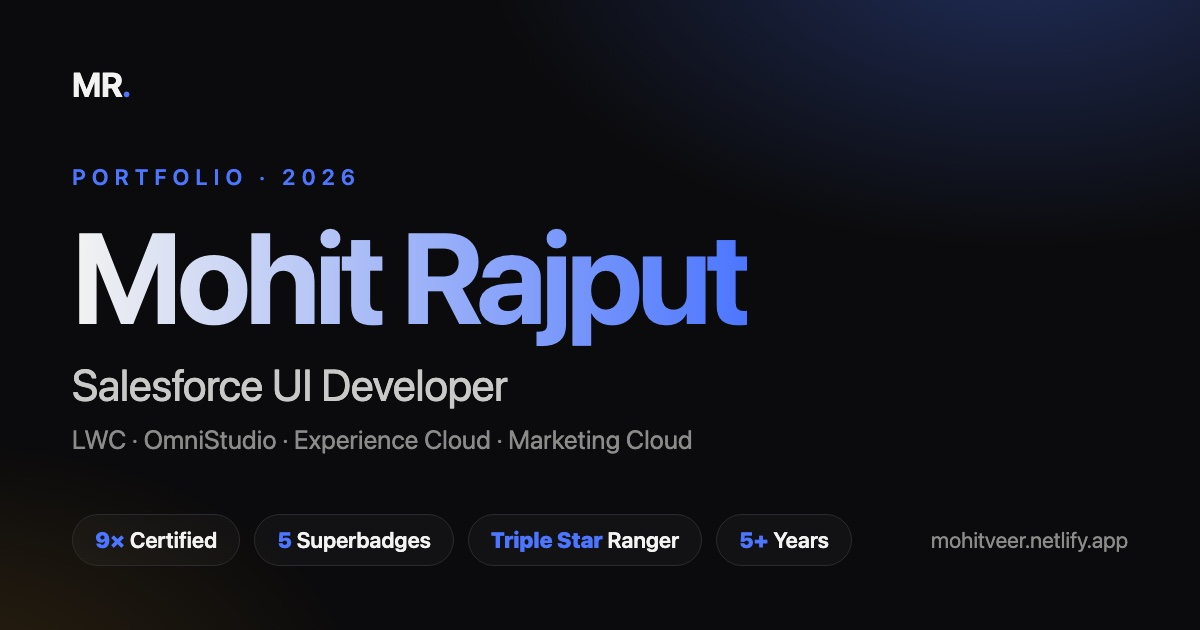
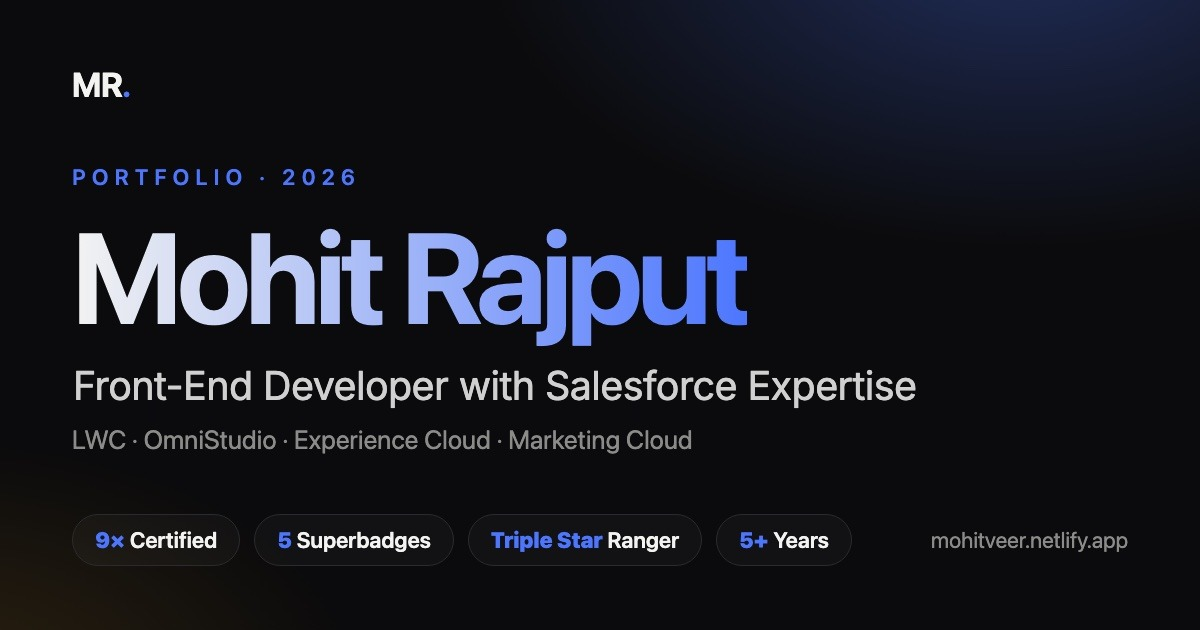
Reposition as a front-end developer with Salesforce expertise and sharpen page titles
Home title, descriptions, Open Graph/Twitter tags, JSON-LD (jobTitle, description, knowsAbout, alternateName), web manifest, llms.txt and README now lead with the new positioning instead of 'UI Developer'. Inner pages target the high-intent phrase 'Salesforce Front-End Developer' with LWC/OmniStudio/Experience Cloud keywords, project pages say 'Salesforce Project' only when the work is Salesforce, and the build rewrites the home head from siteRoutes so titles live in one place. The social preview image was regenerated with the new subtitle and is cache-busted with ?v=2.

Changed region(s): [[0.0617, 0.573, 0.7708, 0.6635]]

diff --git a/index.html b/index.html
@@ -12,10 +12,10 @@
     <script src="/theme-init.js"></script>
 
 
-    <title>Mohit Rajput — Salesforce UI Developer | LWC &amp; OmniStudio</title>
+    <title>Mohit Rajput — Front-End Developer with Salesforce Expertise</title>
     <meta
       name="description"
-      content="Salesforce UI Developer with 5+ years building LWC, OmniStudio, Experience Cloud and Marketing Cloud solutions. Cut portal load times 50%. Available for hire."
+      content="Salesforce front-end developer with 5+ years of LWC, OmniStudio, Experience Cloud and Marketing Cloud delivery. 9x Salesforce certified. Open to hire."
     />
     <meta name="author" content="Mohit Rajput" />
     <meta name="theme-color" content="#000000" />
@@ -24,33 +24,33 @@
     <link rel="canonical" href="https://mohitveer.netlify.app/" />
 
     <meta property="og:site_name" content="Mohit Rajput" />
-    <meta property="og:title" content="Mohit Rajput — Salesforce UI Developer" />
+    <meta property="og:title" content="Mohit Rajput — Front-End Developer with Salesforce Expertise" />
     <meta
       property="og:description"
-      content="5+ years shipping LWC, OmniStudio and Marketing Cloud at Wipro & Mphasis. Open to opportunities worldwide."
+      content="Front-end developer with Salesforce expertise. 5+ years shipping LWC, OmniStudio and Marketing Cloud at Wipro &amp; Mphasis. Open to opportunities worldwide."
     />
     <meta property="og:type" content="website" />
     <meta property="og:url" content="https://mohitveer.netlify.app/" />
-    <meta property="og:image" content="https://mohitveer.netlify.app/og-image.jpg" />
+    <meta property="og:image" content="https://mohitveer.netlify.app/og-image.jpg?v=2" />
     <meta property="og:image:type" content="image/jpeg" />
     <meta property="og:image:width" content="1200" />
     <meta property="og:image:height" content="630" />
     <meta
       property="og:image:alt"
-      content="Mohit Rajput — Salesforce UI Developer. 9x Salesforce certified, Triple Star Ranger."
+      content="Mohit Rajput — Front-End Developer with Salesforce Expertise. 9x Salesforce certified, Triple Star Ranger."
     />
     <meta property="og:locale" content="en_US" />
 
     <meta name="twitter:card" content="summary_large_image" />
-    <meta name="twitter:title" content="Mohit Rajput — Salesforce UI Developer" />
+    <meta name="twitter:title" content="Mohit Rajput — Front-End Developer with Salesforce Expertise" />
     <meta
       name="twitter:description"
-      content="5+ years shipping LWC, OmniStudio and Marketing Cloud at Wipro & Mphasis. Open to opportunities worldwide."
+      content="Front-end developer with Salesforce expertise. 5+ years shipping LWC, OmniStudio and Marketing Cloud at Wipro &amp; Mphasis. Open to opportunities worldwide."
     />
-    <meta name="twitter:image" content="https://mohitveer.netlify.app/og-image.jpg" />
+    <meta name="twitter:image" content="https://mohitveer.netlify.app/og-image.jpg?v=2" />
     <meta
       name="twitter:image:alt"
-      content="Mohit Rajput — Salesforce UI Developer. 9x Salesforce certified, Triple Star Ranger."
+      content="Mohit Rajput — Front-End Developer with Salesforce Expertise. 9x Salesforce certified, Triple Star Ranger."
     />
 
     <script type="application/ld+json">
@@ -61,7 +61,8 @@
             "@type": "WebSite",
             "@id": "https://mohitveer.netlify.app/#website",
             "url": "https://mohitveer.netlify.app/",
-            "name": "Mohit Rajput — Portfolio",
+            "name": "Mohit Rajput",
+            "alternateName": ["Mohit Rajput Portfolio", "Mohit Rajput Salesforce Front-End Developer"],
             "inLanguage": "en",
             "publisher": { "@id": "https://mohitveer.netlify.app/#person" }
           },
@@ -69,7 +70,7 @@
             "@type": "ProfilePage",
             "@id": "https://mohitveer.netlify.app/#profilepage",
             "url": "https://mohitveer.netlify.app/",
-            "name": "Mohit Rajput — Salesforce UI Developer",
+            "name": "Mohit Rajput — Front-End Developer with Salesforce Expertise",
             "isPartOf": { "@id": "https://mohitveer.netlify.app/#website" },
             "mainEntity": { "@id": "https://mohitveer.netlify.app/#person" },
             "dateCreated": "2026-07-13",
@@ -79,7 +80,8 @@
             "@type": "Person",
             "@id": "https://mohitveer.netlify.app/#person",
             "name": "Mohit Rajput",
-            "jobTitle": "Salesforce UI Developer",
+            "jobTitle": "Front-End Developer with Salesforce Expertise",
+            "description": "Front-end developer with Salesforce expertise and 5+ years building Lightning Web Components, OmniStudio, Experience Cloud and Marketing Cloud solutions.",
             "url": "https://mohitveer.netlify.app/",
             "email": "mailto:rajput.mohit.veer@gmail.com",
             "worksFor": { "@type": "Organization", "name": "Wipro" },
@@ -94,7 +96,8 @@
               "Experience Cloud",
               "Salesforce Marketing Cloud",
               "Agentforce",
-              "Salesforce UI Development",
+              "Salesforce Front-End Development",
+              "Front-End Engineering",
               "Web Accessibility (WCAG)"
             ],
             "hasCredential": [
@@ -126,9 +129,9 @@
 
     <noscript>
       <main style="max-width: 40rem; margin: 0 auto; padding: 4rem 1.5rem; font-family: -apple-system, 'Helvetica Neue', Arial, sans-serif; line-height: 1.6; color: #f3f3f1; background: #0b0b0c">
-        <h1>Mohit Rajput — Salesforce UI Developer</h1>
+        <h1>Mohit Rajput — Front-End Developer with Salesforce Expertise</h1>
         <p>
-          Salesforce front-end engineer with 5+ years building Lightning Web Components, OmniStudio,
+          Front-end developer with Salesforce expertise and 5+ years building Lightning Web Components, OmniStudio,
           Experience Cloud and Marketing Cloud solutions at Wipro and Mphasis Silverline. Nine Salesforce
           certifications, five Trailhead superbadges, and a Triple Star Ranger rank. Open to opportunities
           worldwide — remote, hybrid or onsite.

diff --git a/src/lib/siteRoutes.ts b/src/lib/siteRoutes.ts
@@ -1,3 +1,5 @@
+import { SITE_ROLE } from './site'
+
 export interface SiteRoute {
   path: string
   id: string
@@ -13,39 +15,39 @@ export const siteRoutes: SiteRoute[] = [
     path: '/',
     id: 'home',
     label: 'Home',
-    title: 'Mohit Rajput — Salesforce UI Developer | LWC & OmniStudio',
+    title: `Mohit Rajput — ${SITE_ROLE}`,
     description:
-      'Salesforce UI Developer with 5+ years building LWC, OmniStudio, Experience Cloud and Marketing Cloud solutions. Cut portal load times 50%. Available for hire.',
+      'Salesforce front-end developer with 5+ years of LWC, OmniStudio, Experience Cloud and Marketing Cloud delivery. 9x Salesforce certified. Open to hire.',
   },
   {
     path: '/projects',
     id: 'projects',
     label: 'Projects',
-    title: 'Projects — Mohit Rajput | Enterprise Salesforce Front-End',
+    title: 'Salesforce Projects by Mohit Rajput | LWC & Experience Cloud',
     description:
-      'Client projects by Mohit Rajput for global brands: Experience Cloud, LWC and OmniStudio across telecom, banking, healthcare and automotive.',
+      'Salesforce client projects by Mohit Rajput for global brands: Experience Cloud, LWC and OmniStudio across telecom, banking, healthcare and automotive.',
   },
   {
     path: '/experience',
     id: 'experience',
     label: 'Experience',
-    title: 'Experience — Mohit Rajput | Salesforce UI Developer',
+    title: 'Experience — Mohit Rajput | Salesforce Front-End Developer',
     description:
-      'Career timeline at Wipro, Mphasis Silverline, DJT and Escade Technologies: LWC, OmniStudio, Experience Cloud, Marketing Cloud and React.',
+      'Salesforce front-end career at Wipro, Mphasis Silverline, DJT and Escade Technologies: LWC, OmniStudio, Experience Cloud, Marketing Cloud and React.',
   },
   {
     path: '/skills',
     id: 'skills',
     label: 'Skills',
-    title: 'Skills & Tools — Mohit Rajput',
+    title: 'Skills — Mohit Rajput | Salesforce Front-End Developer',
     description:
-      'Technical toolkit: Lightning Web Components, Apex, OmniStudio, Experience Cloud, Marketing Cloud, React, TypeScript, design-to-code and accessibility.',
+      'Salesforce and front-end toolkit: Lightning Web Components, Apex, OmniStudio, Experience Cloud, Marketing Cloud, React, TypeScript and accessibility.',
   },
   {
     path: '/achievements',
     id: 'achievements',
     label: 'Achievements',
-    title: 'Certifications & Achievements — Mohit Rajput',
+    title: 'Salesforce Certifications — Mohit Rajput | 9x Certified',
     description:
       'Nine Salesforce certifications with the original certificates, five Trailhead superbadges and Triple Star Ranger status.',
   },
@@ -53,7 +55,7 @@ export const siteRoutes: SiteRoute[] = [
     path: '/blog',
     id: 'blog',
     label: 'Articles',
-    title: 'Articles — Mohit Rajput',
+    title: 'Salesforce & Front-End Articles — Mohit Rajput',
     description:
       'Articles on Experience Cloud performance, SLDS 2, Marketing Cloud email rendering and personalization by Mohit Rajput.',
   },
@@ -61,7 +63,7 @@ export const siteRoutes: SiteRoute[] = [
     path: '/contact',
     id: 'contact',
     label: 'Contact',
-    title: 'Contact & Hire — Mohit Rajput',
+    title: 'Hire a Salesforce Front-End Developer — Mohit Rajput',
     description:
       'Get in touch with Mohit Rajput for full-time or contract Salesforce front-end roles — remote, hybrid or onsite, worldwide.',
   },
@@ -69,8 +71,8 @@ export const siteRoutes: SiteRoute[] = [
     path: '/resume',
     id: 'resume',
     label: 'Resume',
-    title: 'Resume — Mohit Rajput',
-    description: 'View or download the current résumé of Mohit Rajput, Salesforce UI Developer.',
+    title: 'Resume — Mohit Rajput | Salesforce Front-End Developer',
+    description: 'View or download the current résumé of Mohit Rajput, a front-end developer with Salesforce expertise.',
   },
   {
     path: '/privacy',

diff --git a/vite.seo.ts b/vite.seo.ts
@@ -99,10 +99,9 @@ function noscriptBlock(page: SeoPage): string {
     </noscript>`
 }
 
-function renderPage(base: string, page: SeoPage, siteUrl: string, preloads: string): string {
+function withPageMeta(base: string, page: SeoPage, siteUrl: string): string {
   const url = `${siteUrl}${page.path}`
-  let html = withHeadTags(base, preloads)
-  html = html.replace(/<title>[\s\S]*?<\/title>/, () => `<title>${escapeHtml(page.title)}</title>`)
+  let html = base.replace(/<title>[\s\S]*?<\/title>/, () => `<title>${escapeHtml(page.title)}</title>`)
   html = withMeta(html, 'name', 'description', page.description)
   html = replaceTag(html, /<link\s+rel="canonical"[\s\S]*?\/>/, `<link rel="canonical" href="${url}" />`)
   html = withMeta(html, 'property', 'og:title', page.title)
@@ -110,7 +109,11 @@ function renderPage(base: string, page: SeoPage, siteUrl: string, preloads: stri
   html = withMeta(html, 'property', 'og:url', url)
   html = withMeta(html, 'property', 'og:type', page.type)
   html = withMeta(html, 'name', 'twitter:title', page.title)
-  html = withMeta(html, 'name', 'twitter:description', page.description)
+  return withMeta(html, 'name', 'twitter:description', page.description)
+}
+
+function renderPage(base: string, page: SeoPage, siteUrl: string, preloads: string): string {
+  let html = withPageMeta(withHeadTags(base, preloads), page, siteUrl)
   if (page.jsonLd.length > 0) {
     const script = `<script type="application/ld+json" data-route-jsonld>${JSON.stringify({ '@context': 'https://schema.org', '@graph': page.jsonLd })}</script>`
     html = html.replace('</head>', () => `    ${script}\n  </head>`)
@@ -183,7 +186,9 @@ export function seoPrerender(): Plugin {
       const assets = await readdir(join(outDir, 'assets'))
       const font = assets.find((file) => /^inter-latin-wght-normal-.*\.woff2$/.test(file))
       const fontTag = font ? `<link rel="preload" as="font" type="font/woff2" crossorigin href="/assets/${font}" />` : ''
-      const shell = withHeadTags(base, [fontTag, preloadTags(routeChunks('/'))].filter(Boolean).join('\n    '))
+      const home = pages.find((page) => page.path === '/')
+      const homeBase = home ? withPageMeta(base, home, siteUrl) : base
+      const shell = withHeadTags(homeBase, [fontTag, preloadTags(routeChunks('/'))].filter(Boolean).join('\n    '))
       await writeFile(join(outDir, 'index.html'), shell)
 
       let written = 0

diff --git a/src/components/Contact.tsx b/src/components/Contact.tsx
@@ -14,7 +14,7 @@ const LONGEST = WORDS.reduce((a, b) => (a.length > b.length ? a : b), '')
 
 const RIBBON_TECH = 'LWC • Apex • SOQL • OmniStudio • Experience Cloud • Agentforce • Marketing Cloud • React • TypeScript • SLDS'
 const RIBBON_ROLES =
-  'Salesforce Front-End Developer • LWC Developer • OmniStudio Developer • Experience Cloud Developer • UI Developer • Marketing Cloud Developer'
+  'Front-End Developer • Salesforce Developer • LWC Developer • OmniStudio Developer • Experience Cloud Developer • Marketing Cloud Developer'
 
 export default function Contact() {
   useSectionView('contact', 'Contact', 'contact_section_view')
@@ -82,8 +82,8 @@ export default function Contact() {
 
         <p className="mx-auto mb-10 mt-4 max-w-4xl text-xl text-muted-foreground">
           I&apos;m open to full-time and contract opportunities worldwide — remote, hybrid, or onsite, including visa-sponsored roles.
-          Need a Salesforce Front-End Engineer who builds scalable, accessible, high-performance experiences with LWC, Experience
-          Cloud, OmniStudio and Agentforce? Let&apos;s connect.
+          Need a front-end developer with Salesforce expertise who builds scalable, accessible, high-performance experiences with LWC,
+          Experience Cloud, OmniStudio and Agentforce? Let&apos;s connect.
         </p>
 
         <div className="flex flex-col items-center justify-center gap-6 sm:flex-row">

diff --git a/src/lib/seo.ts b/src/lib/seo.ts
@@ -140,10 +140,17 @@ function fitTitle(candidates: string[]): string {
   return candidates.find((candidate) => candidate.length <= 62) ?? candidates[candidates.length - 1]
 }
 
+const SALESFORCE_WORK = /salesforce|lwc|apex|omni|flexcard|experience cloud|marketing cloud|slds/i
+
 export function seoForProject(input: ProjectSeoInput): SeoPage {
   const path = `/projects/${input.slug}`
   const owner = input.employer ? ` at ${input.employer}` : ''
-  const title = fitTitle([`${input.title}${owner} — Project | ${SITE_NAME}`, `${input.title} — Project | ${SITE_NAME}`])
+  const noun = input.tags.some((tag) => SALESFORCE_WORK.test(tag)) ? 'Salesforce Project' : 'Project'
+  const title = fitTitle([
+    `${input.title} ${noun}${owner} — ${SITE_NAME}`,
+    `${input.title} ${noun} — ${SITE_NAME}`,
+    `${input.title} — ${SITE_NAME}`,
+  ])
   const lead = input.sector ? `${input.title} (${input.sector}) — ` : `${input.title} — `
   const description = describe(`${lead}${input.description}`)
   const work: JsonLd = {

diff --git a/src/components/Hero.tsx b/src/components/Hero.tsx
@@ -127,7 +127,7 @@ export default function Hero() {
               transition={{ duration: reduce ? 0 : 0.8, delay: reduce ? 0 : 0.2 }}
               className="block max-w-[200px] text-start text-[10px] font-medium uppercase leading-relaxed tracking-[0.2em] text-muted-foreground md:max-w-[220px] md:text-right md:text-xs"
             >
-              Hi, I&apos;m {profile.name}. I build fast, accessible experiences on Salesforce.
+              Hi, I&apos;m {profile.name}, a front-end developer with Salesforce expertise.
             </motion.span>
             <span className="relative block">
               <Float revealed={revealed} delay={0} axis="y" distance={-10} duration={2} className="-top-4 right-0 text-primary/60 hover:text-primary md:right-2">

diff --git a/src/components/skillspage/SkillsClosing.tsx b/src/components/skillspage/SkillsClosing.tsx
@@ -39,7 +39,7 @@ export default function SkillsClosing() {
             the Future
           </h2>
           <p className="mt-6 text-sm text-muted-foreground md:text-base">
-            Salesforce UI Developer · LWC &amp; OmniStudio | Turning requirements into production-ready experiences
+            Front-End Developer with Salesforce Expertise · LWC &amp; OmniStudio | Turning requirements into production-ready experiences
           </p>
           <div className="mt-10 flex flex-wrap gap-3">
             <Link

diff --git a/src/lib/site.ts b/src/lib/site.ts
@@ -1,3 +1,4 @@
 export const SITE_URL = 'https://mohitveer.netlify.app'
 export const SITE_NAME = 'Mohit Rajput'
-export const OG_IMAGE = `${SITE_URL}/og-image.jpg`
+export const SITE_ROLE = 'Front-End Developer with Salesforce Expertise'
+export const OG_IMAGE = `${SITE_URL}/og-image.jpg?v=2`

diff --git a/README.md b/README.md
@@ -1,6 +1,6 @@
 # Mohit Rajput — Personal Portfolio
 
-A modern, responsive portfolio showcasing my expertise as a Salesforce UI Engineer and Front-End Developer. Built with React, TypeScript, Tailwind CSS, and Vite, the portfolio highlights enterprise Salesforce projects, certifications, technical articles, and interactive UI experiences.
+A modern, responsive portfolio showcasing my work as a front-end developer with Salesforce expertise. Built with React, TypeScript, Tailwind CSS, and Vite, the portfolio highlights enterprise Salesforce projects, certifications, technical articles, and interactive UI experiences.
 
 ## 🌐 Live Website
 
@@ -129,7 +129,7 @@ Designed using a mobile-first approach with Tailwind CSS breakpoints.
 - Trailhead Triple Star Ranger
 - Agentblazer Innovator 2026
 - Multiple Salesforce Superbadges
-- 5+ years of Salesforce UI & Front-End Development
+- 5+ years of front-end development with Salesforce expertise
 - Experience across LWC, OmniStudio, Experience Cloud, Marketing Cloud, and Agentforce
 
 ---
